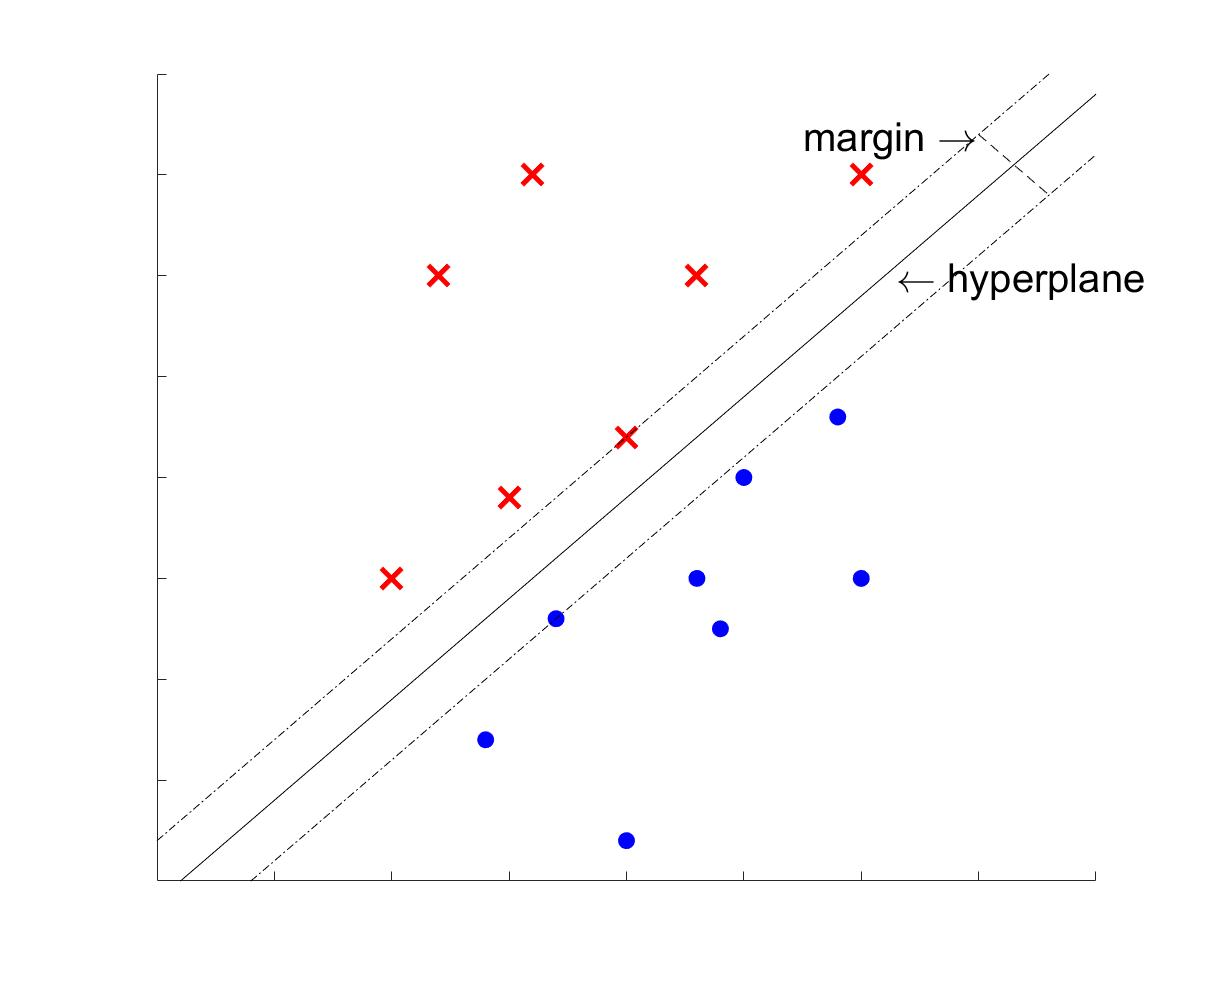
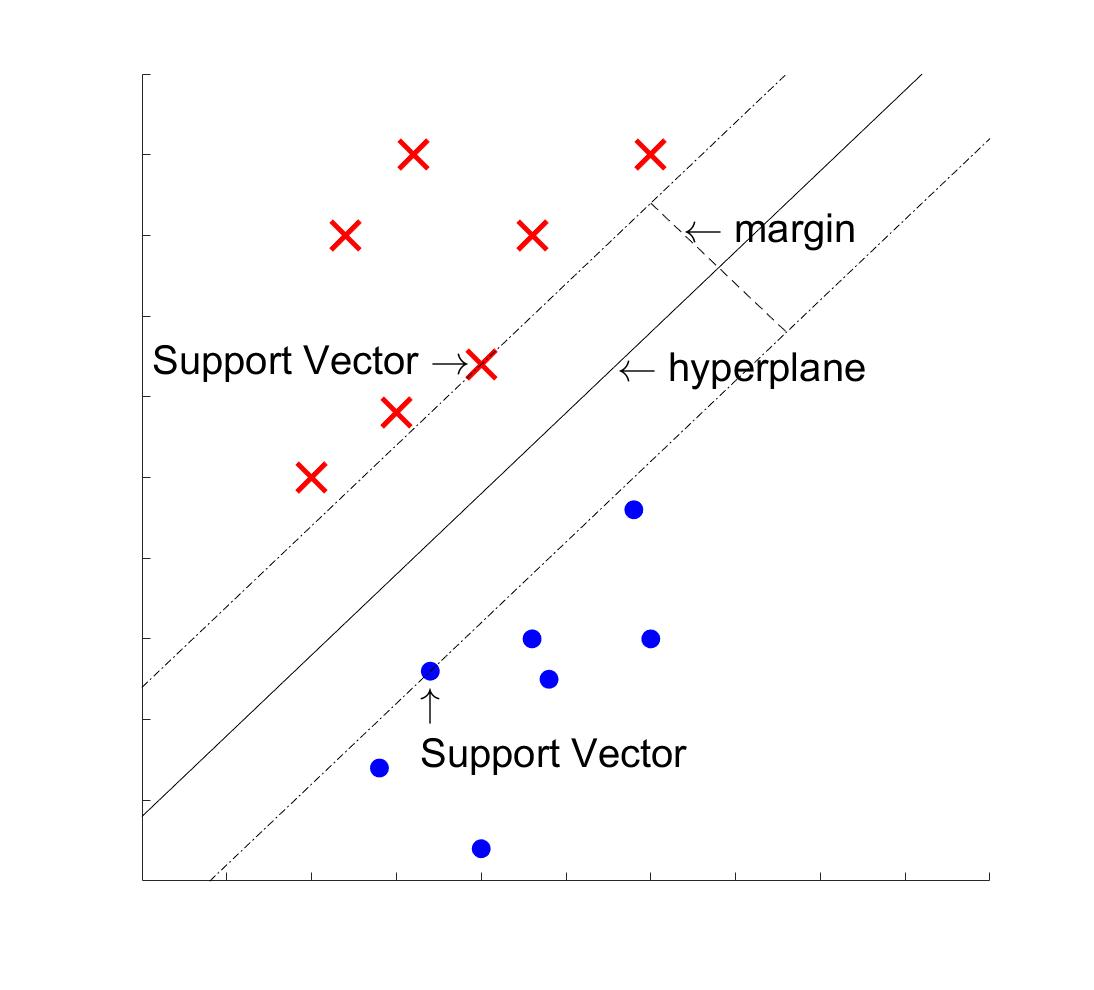
edit images and sec 2

diff --git a/report/sections/math.tex b/report/sections/math.tex
@@ -3,13 +3,25 @@
 %=====================
 
 \begin{figure*}[!tb]
-	\includegraphics[width=7cm, height=7cm]{SVM_fig2}
-	\centering
-	\caption{Notice that the best hyperplane that separates the two classes is as far away from the margin planes as possible. Any other separating hyperplane would not seem \textit{natural} for the data we have.}
-	\label{fig:SVM_fig1}
+	\begin{subfigure}[t]{0.5\textwidth}
+		\includegraphics[width=7cm, height=7cm]{SVM_fig}
+		\caption{Finding the optimal hyperplane}
+		\centering
+		\label{fig:SVM_fig_a}
+	\end{subfigure}%
+	~
+	\begin{subfigure}[t]{0.5\textwidth}
+		\includegraphics[width=7cm, 			height=7cm]{SVM_fig2}
+		\caption{The optimal hyperplane}
+		\centering
+		\label{fig:SVM_fig_b}
+	\end{subfigure}%
+	
+	\caption{Figure \ref{fig:SVM_fig_a} shows $3$ different separating hyperplanes, however only one separates the data most naturally. This is called the optimal hyperplane. Figure \ref{fig:SVM_fig_b} shows the optimal hyperplane, the margin planes, and the support vectors.}
+	\label{fig:SVM_fig}
 \end{figure*}
 
-The concept of Support Vector Machines is very simple. It is a classifier that classifies data into two different classes by constructing a hyperplane that separates the two different classes. Figure \ref{fig:SVM_fig1} illustrates a simple example.
+The concept of Support Vector Machines is very simple. It is a classifier that classifies data into two different classes by constructing a hyperplane that separates the two different classes. Figure \ref{fig:SVM_fig} illustrates a simple example.
 
 Suppose we have training data:
 \begin{gather}
@@ -34,7 +46,7 @@ Once again, choice of $1$ and $-1$ for our margins are arbitrary. Now, notice th
 \vec{w}\cdot\vec{x} + b = -1 \label{eq:margin-notclass-1}
 \end{gather}
 
-Generally, there are infinitely many hyperplanes that are able to separate the data. To find the \textit{best} hyperplane (the optimal hyperplane) that separates the two classes, we want to maximize the distance between the two margin hyperplanes. This supports our intuition that the \textit{best} separating plane should be as far away from both the classes as possible. See figure \ref{fig:SVM_fig1} to understand why this supports our intuition.
+Generally, there are infinitely many hyperplanes that are able to separate the data. To find the \textit{best} hyperplane (the optimal hyperplane) that separates the two classes, we want to maximize the distance between the two margin hyperplanes. This supports our intuition that the \textit{best} separating plane should be as far away from both the classes as possible. See figure \ref{fig:SVM_fig_a} to understand why this supports our intuition.
 
 The distance between the margin hyperplanes is given by\footnote{See Appendix \ref{appendix:distance} for proof}:
 \begin{equation}
@@ -72,7 +84,7 @@ We do not know anything about the independence of $\{\vec{x_1}, \vec{x_2}, \dots
 = \sum_{i = 1}^{m}\alpha_{i}y_{i}\langle\vec{x_i}, \vec{x}\rangle + b \label{eq:new-plane}
 \end{align}
 
-Now, let us turn our attention back to the margin hyperplanes. Notice that these hyperplanes are defined by the vectors that are the closest to the optimal hyperplane. And these vectors determine our margin, and thus our optimization problem. Hence, these vectors are called \textbf{Support Vectors} and thus this technique is called \textit{Support Vector Machines}.
+Now, let us turn our attention back to the margin hyperplanes. Notice that these hyperplanes are defined by the vectors that are the closest to the optimal hyperplane. And these vectors determine our margin, and thus our optimization problem. Hence, these vectors are called \textbf{Support Vectors} and thus this technique is called \textit{Support Vector Machines}. Figure \ref{fig:SVM_fig_b} shows the support vectors for our simple example.
 
 \begin{figure*}[!tb]
 	\centering

diff --git a/report/sections/mathematical-formulation.tex b/report/sections/mathematical-formulation.tex
@@ -33,11 +33,23 @@ The two sets' vectors with the minimum distance to each other are defined as the
 
 Figure \ref{fig:SVM_fig2} shows this concept using a Matlab plot
 
-\begin{figure*}[!htb]
-	\includegraphics[width=10cm, height=10cm]{SVM_fig2}
-	\centering
+\begin{figure*}[t]
+	\begin{subfigure}[t]{0.5\textwidth}
+		\includegraphics[width=7cm, height=7cm]{SVM_fig2}
+		\caption{}
+		\centering
+		\label{fig:SVM_fig_a}
+	\end{subfigure}%
+	~
+	\begin{subfigure}[t]{0.5\textwidth}
+		\includegraphics[width=7cm, 			height=7cm]{SVM_fig}
+		\caption{}
+		\centering
+		\label{fig:SVM_fig_b}
+	\end{subfigure}%
+	
 	\caption{The hyperplane is constrained to be within the limits of the margin, which are themselves defined by the support vectors.}
-	\label{fig:SVM_fig2}
+	\label{fig:SVM_fig}
 \end{figure*}
 
 This form is called canonical, as we have chosen to define $y \in \{-1, 1\}$. The choices of -1 and 1 are arbitrary, but result in the simplest most efficient calculation in computer applications. The set of $y$ values represents our two classes, and must always only have two elements. The problem of applying this to problems with more than 2 cases is discussed later, since our problem is to differentiate between 10 classes of numerical digits.
